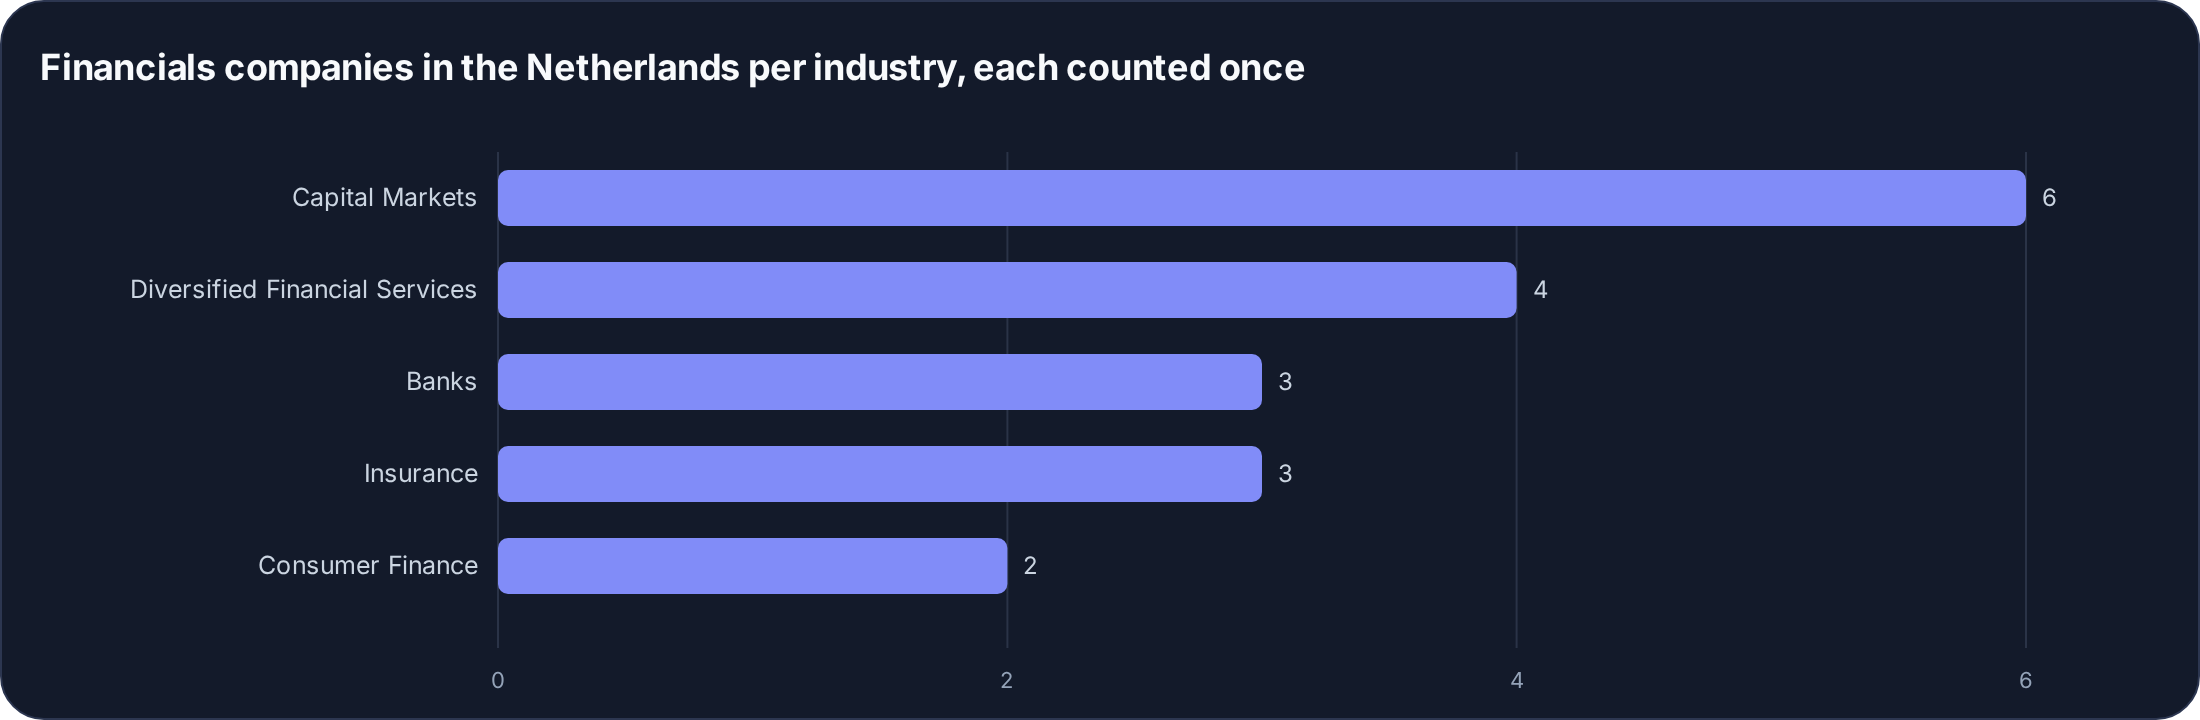
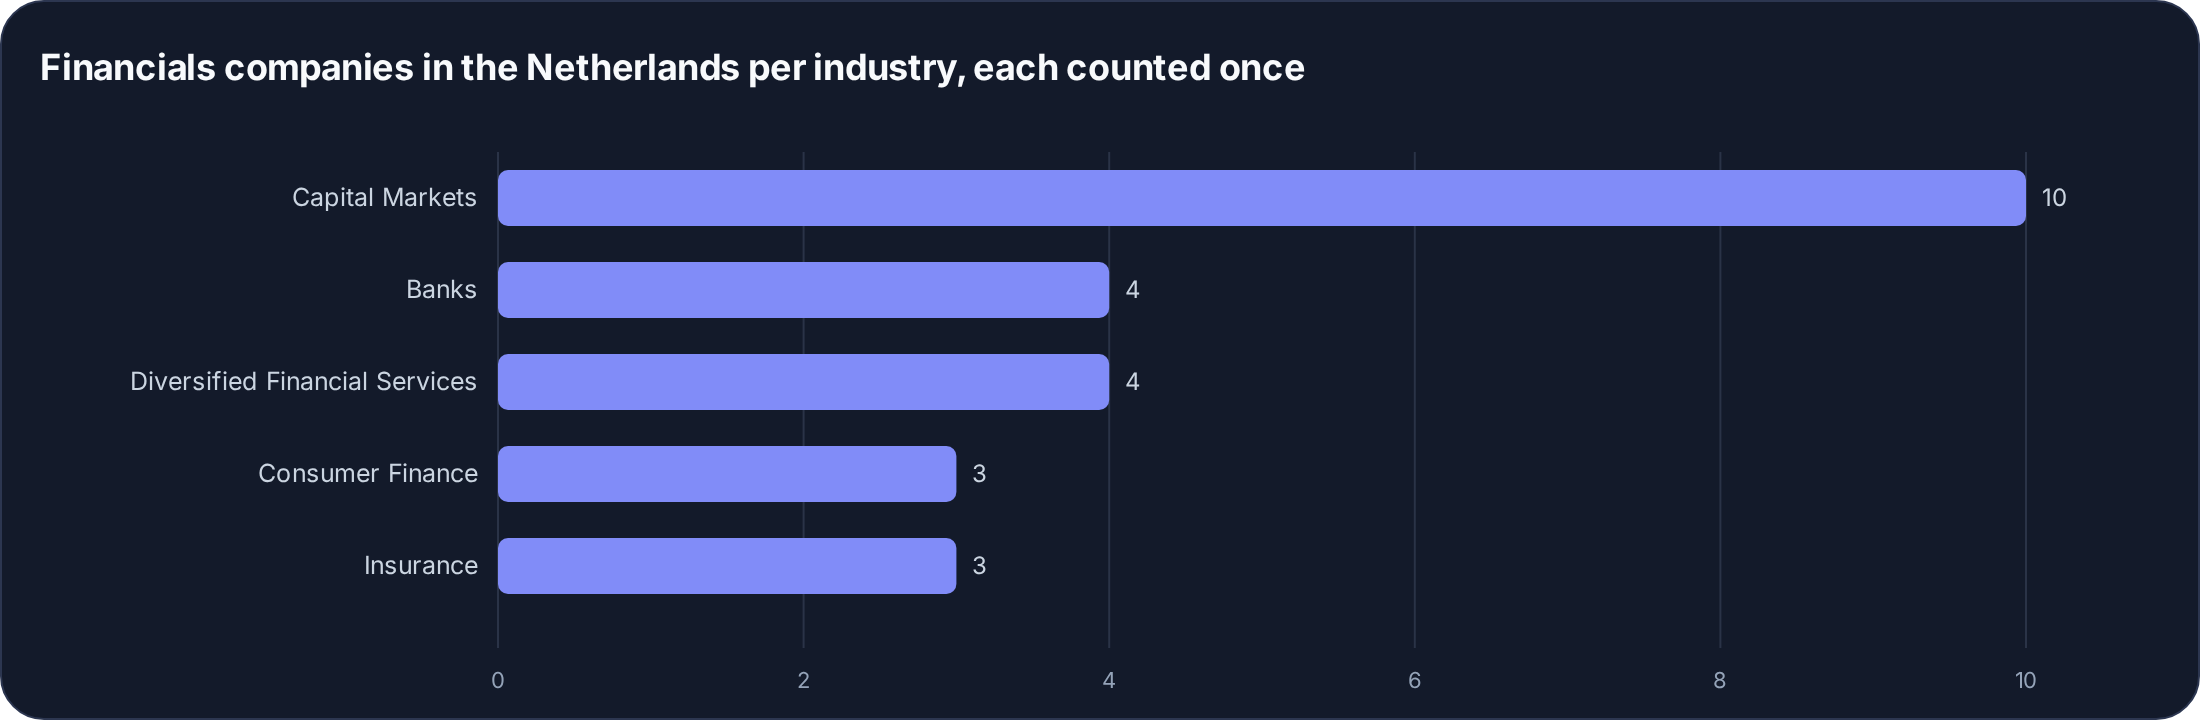
Fill the gaps in the README examples and refresh them
Every example was re-run against the current data:
- Toyota and Nestle now show their ISINs;
- the Vanguard bond ETFs show their full names and categories;
- the pension fund search returns 628 funds;
- the sector, Dutch financials, Dutch insurance listings and ETF
  category charts are regenerated (the ETF chart follows the new ETF
  categories and counts ETFs with a category group).

diff --git a/README.md b/README.md
@@ -106,8 +106,8 @@ A portion of the output is shown below. The tables in this section are cut off t
 |:---------|:-------------------------|:-----------|:-----------------------|:-------------------------------------------|:-----------|:---------------------|:--------------|:-------------|:-------------|
 | AAPL     | Apple Inc.               | USD        | Information Technology | Technology Hardware, Storage & Peripherals | NMS        | NASDAQ Global Select | United States | Mega Cap     | US0378331005 |
 | ASML.AS  | ASML Holding N.V.        | EUR        | Information Technology | Semiconductors & Semiconductor Equipment   | AMS        | Euronext Amsterdam   | Netherlands   | Mega Cap     | NL0010273215 |
-| 7203.T   | Toyota Motor Corporation | JPY        | Consumer Discretionary | Automobiles                                | JPX        | Tokyo Stock Exchange | Japan         | Mega Cap     |              |
-| NESN.SW  | Nestle S.A.              | CHF        | Consumer Staples       | Food Products                              | EBS        | SIX Swiss Exchange   | Switzerland   | Mega Cap     |              |
+| 7203.T   | Toyota Motor Corporation | JPY        | Consumer Discretionary | Automobiles                                | JPX        | Tokyo Stock Exchange | Japan         | Mega Cap     | JP3633400001 |
+| NESN.SW  | Nestle S.A.              | CHF        | Consumer Staples       | Food Products                              | EBS        | SIX Swiss Exchange   | Switzerland   | Mega Cap     | CH0038863350 |
 | SAP.DE   | SAP SE                   | EUR        | Information Technology | Software                                   | GER        | XETRA                | Germany       | Mega Cap     | DE0007164600 |
 
 And below the actively listed equities are counted per sector.
@@ -274,13 +274,13 @@ etfs.select(
 
 For example, see some of the Vanguard bond ETFs listed in Berlin below:
 
-| symbol   | name                      | currency   | category_group   | category        | family                    | exchange   |
-|:---------|:--------------------------|:-----------|:-----------------|:----------------|:--------------------------|:-----------|
-| 0250.BE  | VANG.INT.-T.C.BD IDX ETF  | EUR        | Fixed Income     | Corporate Bonds | Vanguard Asset Management | BER        |
-| 0251.BE  | VANG.SH.-T.CO.BD IDX ETF  | EUR        | Fixed Income     | Corporate Bonds | Vanguard Asset Management | BER        |
-| 0252.BE  | VANG.SC.FDS-V.TO.W.BD ETF | EUR        | Fixed Income     |                 | Vanguard Asset Management | BER        |
-| 025L.BE  | VANG.TOTAL INT.BD IDX ETF | EUR        | Fixed Income     |                 | Vanguard Asset Management | BER        |
-| 025N.BE  | VANG.LO.-T.C.BD IDX ETF   | EUR        | Fixed Income     | Corporate Bonds | Vanguard Asset Management | BER        |
+| symbol   | name                                                             | currency   | category_group   | category               | family                    | exchange   |
+|:---------|:-----------------------------------------------------------------|:-----------|:-----------------|:-----------------------|:--------------------------|:-----------|
+| 0250.BE  | Vanguard Intermediate-Term Corporate Bond Index Fund ETF Shares | EUR        | Fixed Income     | Corporate Bonds        | Vanguard Asset Management | BER        |
+| 0251.BE  | Vanguard Short-Term Corporate Bond Index Fund ETF Shares        | EUR        | Fixed Income     | Corporate Bonds        | Vanguard Asset Management | BER        |
+| 0252.BE  | Vanguard Total World Bond ETF                                    | EUR        | Fixed Income     | Investment Grade Bonds | Vanguard Asset Management | BER        |
+| 025L.BE  | Vanguard Total International Bond Index Fund ETF Shares         | EUR        | Fixed Income     | Investment Grade Bonds | Vanguard Asset Management | BER        |
+| 025N.BE  | Vanguard Long-Term Corporate Bond Index Fund ETF Shares         | EUR        | Fixed Income     | Corporate Bonds        | Vanguard Asset Management | BER        |
 
 The same applies to `search`, for example to find the funds that focus on pension plans:
 
@@ -292,7 +292,7 @@ funds = fd.Funds()
 funds.search(summary="Pension")
 ```
 
-Which returns 623 funds, of which a few are shown below:
+Which returns 628 funds, of which a few are shown below:
 
 | symbol       | name                                | currency   | category_group   | category                 | family                           | exchange   |
 |:-------------|:------------------------------------|:-----------|:-----------------|:-------------------------|:---------------------------------|:-----------|
